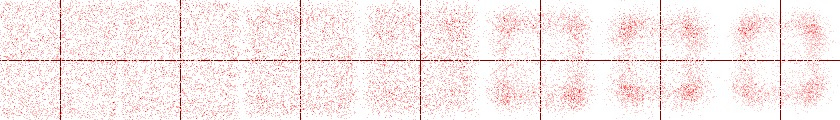
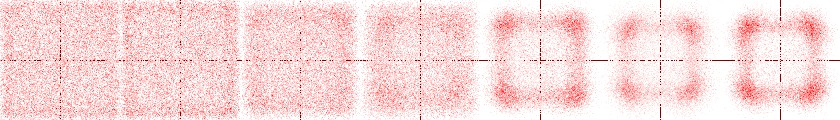
Update histograms results and add tBloc pareto charts.

diff --git a/pmp/experiments/multigoal_charts.py b/pmp/experiments/multigoal_charts.py
@@ -16,18 +16,22 @@ def get_profile(voters_number, candidates_number):
     return Profile(candidates, preferences)
 
 
-def plot(x, y, e, rule1, rule2, title=""):
+def plot(x, y, rule1_name, rule2_name, title=""):
     axes = plt.gca()
     axes.set_xlim([0, 100])
-    plt.xlabel(rule2.__class__.__name__)
-    axes.set_ylim([0, y[0] + e[0]])
-    plt.ylabel(rule1.__class__.__name__)
-    plt.errorbar(x, y, np.zeros(len(e)), linestale=None)
+    plt.xlabel(rule2_name)
+    axes.set_ylim([0, y[0]])
+    plt.ylabel(rule1_name)
+    plt.plot(x, y)
     plt.title(title)
+    plt.legend(['avg', 'min'])
 
 
-def draw_chart(filename, k, n, m, repetitions, rule1, rule2, multigoal_rule, step=5, log_errors=True):
-    x = np.array([a for a in range(70, 101, step)])
+def draw_chart(filename, k, n, m, repetitions, rule1, rule2, multigoal_rule, start=70, step=5, log_errors=True):
+    print('----------------------------------------------------------')
+    print multigoal_rule.__name__, ', committee size:', k
+    print('----------------------------------------------------------')
+    x = np.array([a for a in range(start, 101, step)])
     y_samples = np.array([np.zeros(repetitions) for _ in x])
 
     y = np.zeros(len(x))
@@ -53,9 +57,18 @@ def draw_chart(filename, k, n, m, repetitions, rule1, rule2, multigoal_rule, ste
         mins[i] = np.min(y_samples[i])
         maxs[i] = np.max(y_samples[i])
         e[i] = np.std(y_samples[i])
-        print("r1: {}% - r2: {}%, r2_min: {}, error: {}".format(r2, y[i], mins[i], e[i]))
+        print("r1: {:3.0f}% - r2: {:3.0f}%, r2_min: {:10.3f}, error: {:10.3f}".format(r2, y[i], mins[i], e[i]))
+        if y[i] == 0:
+            break
 
     title = "voters: {}, candidates: {}, committee size: {}".format(n, m, k)
-    plot(x, y, e, rule1, rule2, title=title)
-    plot(x, mins, e, rule1, rule2, title=title)
+    label1 = rule1.__class__.__name__
+    label2 = rule2.__class__.__name__
+    if rule1.__class__.__name__ == 'TBloc':
+        label1 = '1' + label1[1:]
+        label2 = str(k) + label2[1:]
+
+    plot(x, y, label1, label2, title=title)
+    plot(x, mins, label1, label2, title=title)
     plt.savefig(filename)
+    plt.clf()

diff --git a/examples/introspection/charts_multigoal.py b/examples/introspection/charts_multigoal.py
@@ -1,16 +1,31 @@
-from pmp.experiments.multigoal_charts import draw_chart
-from pmp.rules import Bloc, Borda, ChamberlinCourant
-from pmp.rules import MultigoalBlocBorda as BB
-from pmp.rules import MultigoalCCBorda as CCB
+import math
 
+from pmp.experiments.multigoal_charts import draw_chart
+from pmp.rules import Bloc, Borda, ChamberlinCourant, MultigoalTBloc, MultigoalBlocBorda, MultigoalCCBorda
+from pmp.rules.tbloc import TBloc
 
 repetitions = 10
-k = 2
-n = 30
-m = 40
+ks = [2, 10, 20, 50]
+n = 200
+m = 200
 
-filename = 'bb-chart-k{}-n{}-m{}'.format(k, n, m)
-draw_chart(filename, k, n, m, repetitions,  Bloc(), Borda(), BB, 2, log_errors=False)
+for k in ks:
+    filename = 'bb-chart-k{}-n{}-m{}'.format(k, n, m)
+    draw_chart(filename, k, n, m, repetitions,  Bloc(), Borda(), MultigoalBlocBorda, start=70, step=2, log_errors=False)
 
-filename = 'ccb-chart-k{}-n{}-m{}'.format(k, n, m)
-draw_chart(filename, k, n, m, repetitions, ChamberlinCourant(), Borda(), CCB, 2, log_errors=False)
+    filename = 'ccb-chart-k{}-n{}-m{}'.format(k, n, m)
+    draw_chart(filename, k, n, m, repetitions, ChamberlinCourant(), Borda(), MultigoalCCBorda, start=70, step=2,
+               log_errors=False)
+
+    filename = 'mbloc(1,k)-chart-k{}-n{}-m{}'.format(k, n, m)
+    draw_chart(filename, k, n, m, repetitions, TBloc(1), TBloc(k), MultigoalTBloc, start=0, step=2, log_errors=False)
+
+    k_2 = int(math.floor(k/2))
+
+    filename = 'mbloc(1,k|2)-chart-k{}-n{}-m{}'.format(k, n, m)
+    draw_chart(filename, k, n, m, repetitions, TBloc(1), TBloc(k_2), MultigoalTBloc, start=0, step=2,
+               log_errors=False)
+
+    filename = 'mbloc(k|2,k)-chart-k{}-n{}-m{}'.format(k, n, m)
+    draw_chart(filename, k, n, m, repetitions, TBloc(k_2), TBloc(k), MultigoalTBloc, start=0, step=2,
+               log_errors=False)

diff --git a/pmp/rules/chamberlin_courant.py b/pmp/rules/chamberlin_courant.py
@@ -26,7 +26,7 @@ class ChamberlinCourant(Rule):
     def initialise_weights(self, _k, profile):
         self.weights = self._borda_weights(len(profile.candidates))
 
-    def find_committee(self, k, profile, method='ILP'):
+    def find_committee(self, k, profile, method='ILP', random_winning_committee=False):
         self.scores = {}
         if self.weights is None:
             self.weights = self._borda_weights(len(profile.candidates))
